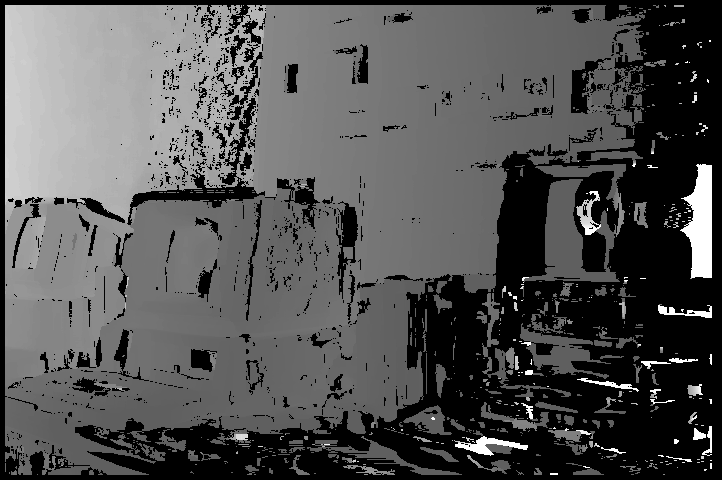
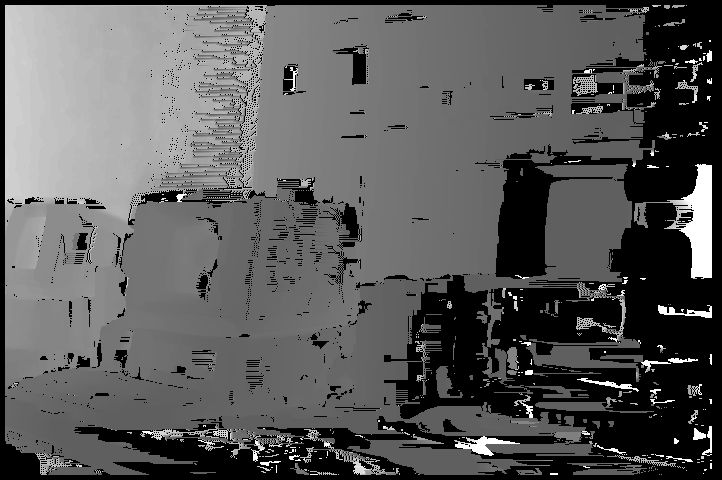
better continuity + order

diff --git a/Dev3/main.cpp b/Dev3/main.cpp
@@ -23,8 +23,6 @@ cv::Mat getDisparityMap(const cv::Mat &left, const cv::Mat &right)
 
     for (int y = WINDOW_SIZE; y < right.rows - WINDOW_SIZE; ++y)
     {
-        int previousDisparity = -1;
-
         for (int x = WINDOW_SIZE; x < right.cols - WINDOW_SIZE; ++x)
         {
             int rightBestDisparity = 0;
@@ -52,19 +50,61 @@ cv::Mat getDisparityMap(const cv::Mat &left, const cv::Mat &right)
                 }
 
                 // CONTRAINTE DE CONTINUITÉ
-                if (previousDisparity != -1)
+                int discontinuityLeft = -1;
+                int discontinuityTopLeft = -1;
+                int discontinuityTop = -1;
+                int discontinuityTopRight = -1;
+                if (y > 0)
                 {
-                    int discontinuity = abs(d - previousDisparity);
-                    if (discontinuity > CONTINUOUS_DISPARITY_TOLERANCE)
+                    discontinuityTop = abs(d - disparityMap.at<uchar>(y - 1, x));
+                    if (x < right.cols - 1)
                     {
-                        err += discontinuity * 100;
+                        discontinuityTopRight = abs(d - disparityMap.at<uchar>(y - 1, x + 1));
                     }
+                    if (x > 0)
+                    {
+                        discontinuityTopLeft = abs(d - disparityMap.at<uchar>(y - 1, x - 1));
+                    }
+                }
+                if (x > 0)
+                {
+                    discontinuityLeft = abs(d - disparityMap.at<uchar>(y, x - 1));
+                }
+
+                if (discontinuityLeft > CONTINUOUS_DISPARITY_TOLERANCE)
+                {
+                    err += discontinuityLeft * 100;
+                }
+                else if (discontinuityTop > CONTINUOUS_DISPARITY_TOLERANCE)
+                {
+                    err += discontinuityTop * 100;
+                }
+                else if (discontinuityTopLeft > CONTINUOUS_DISPARITY_TOLERANCE)
+                {
+                    err += discontinuityTopLeft * 100;
+                }
+                else if (discontinuityTopRight > CONTINUOUS_DISPARITY_TOLERANCE)
+                {
+                    err += discontinuityTopRight * 100;
                 }
 
                 if (err < minRightErr) // On minimise l'erreur
                 {
-                    minRightErr = err;
-                    rightBestDisparity = d;
+                    // CONTRAINTE D'ORDRE
+                    bool ordreRespecter = true;
+                    if (x > 0)
+                    {
+                        int previousDisparity = static_cast<int>(disparityMap.at<uchar>(y, x - 1));
+                        if (x + previousDisparity - 1 > x + d)
+                        {
+                            ordreRespecter = false;
+                        }
+                    }
+                    if (ordreRespecter)
+                    {
+                        minRightErr = err;
+                        rightBestDisparity = d;
+                    }
                 }
             }
 
@@ -96,27 +136,69 @@ cv::Mat getDisparityMap(const cv::Mat &left, const cv::Mat &right)
                         err += diff * diff;
                     }
                 }
-                
-                if (previousDisparity != -1)
+
+                // CONTRAINTE DE CONTINUITÉ
+                int discontinuityLeft = -1;
+                int discontinuityTopLeft = -1;
+                int discontinuityTop = -1;
+                int discontinuityTopRight = -1;
+                if (y > 0)
                 {
-                    int discontinuity = abs(d - previousDisparity);
-                    if (discontinuity > CONTINUOUS_DISPARITY_TOLERANCE)
+                    discontinuityTop = abs(d - disparityMap.at<uchar>(y - 1, x));
+                    if (x < left.cols - 1)
                     {
-                        err += discontinuity * 100;
+                        discontinuityTopRight = abs(d - disparityMap.at<uchar>(y - 1, x + 1));
                     }
+                    if (x > 0)
+                    {
+                        discontinuityTopLeft = abs(d - disparityMap.at<uchar>(y - 1, x - 1));
+                    }
+                }
+                if (x > 0)
+                {
+                    discontinuityLeft = abs(d - disparityMap.at<uchar>(y, x - 1));
+                }
+
+                if (discontinuityLeft > CONTINUOUS_DISPARITY_TOLERANCE)
+                {
+                    err += discontinuityLeft * 100;
+                }
+                else if (discontinuityTop > CONTINUOUS_DISPARITY_TOLERANCE)
+                {
+                    err += discontinuityTop * 100;
+                }
+                else if (discontinuityTopLeft > CONTINUOUS_DISPARITY_TOLERANCE)
+                {
+                    err += discontinuityTopLeft * 100;
+                }
+                else if (discontinuityTopRight > CONTINUOUS_DISPARITY_TOLERANCE)
+                {
+                    err += discontinuityTopRight * 100;
                 }
 
                 if (err < leftMinErr)
                 {
-                    leftMinErr = err;
-                    leftBestDisparity = d;
+                    // CONTRAINTE D'ORDRE
+                    bool ordreRespecter = true;
+                    if (x > 0)
+                    {
+                        int previousDisparity = static_cast<int>(disparityMap.at<uchar>(y, x - 1));
+                        if (x + previousDisparity - 1 > x + d)
+                        {
+                            ordreRespecter = false;
+                        }
+                    }
+                    if (ordreRespecter)
+                    {
+                        leftMinErr = err;
+                        leftBestDisparity = d;
+                    }
                 }
             }
 
             if (abs(rightBestDisparity - leftBestDisparity) <= SYMMETRIC_TOLERANCE)
             {
-                previousDisparity = rightBestDisparity;
-                disparityMap.at<uchar>(y, x) = static_cast<uchar>(previousDisparity);
+                disparityMap.at<uchar>(y, x) = static_cast<uchar>(rightBestDisparity);
             }
         }
     }
@@ -187,14 +269,14 @@ cv::Mat getDepthMap(const cv::Mat &disparity, float zPrime, float dOx, float Tx)
     window.showWidget("cloud", cloud);
     window.spin();
     /*
-    *
-    * 
-    * 
-    * DECOMMENTER LA LIGNE AU DESSUS POUR VOIR LA VISUALISATION
-    * 
-    *     
-    * 
-    */
+     *
+     *
+     *
+     * DECOMMENTER LA LIGNE AU DESSUS POUR VOIR LA VISUALISATION
+     *
+     *
+     *
+     */
     return depthMap;
 }
 
